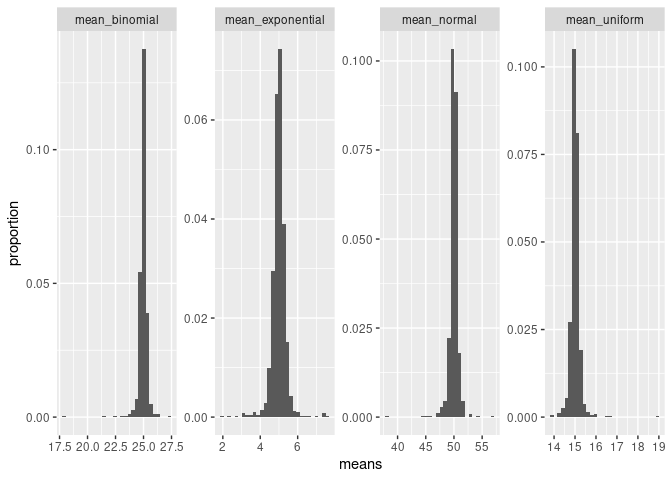
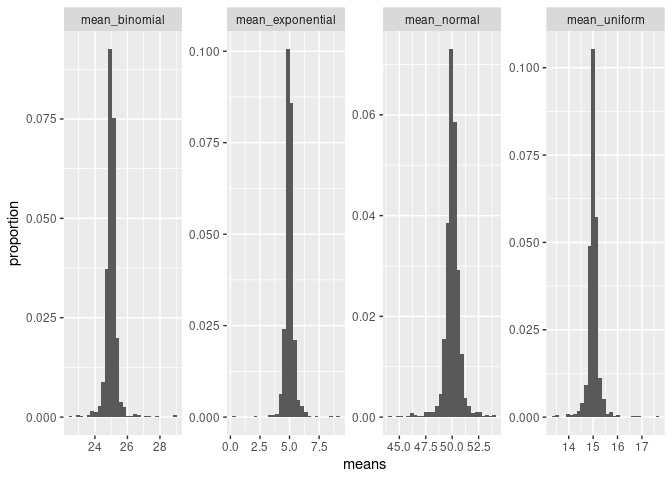
Progress

diff --git a/activity11-simulation.md b/activity11-simulation.md
@@ -173,6 +173,23 @@ distributions (e.g., your Normal data should not have a mean of 0 or a
 standard deviation of 1). Test your function with `n = 30` and
 `n = 1000`.
 
+``` r
+generate_n_samples<-function(n,mean,sd,r,df,min,max){
+  tibble(
+    norm_values=rnorm(n=n,mean=mean, sd=sd),
+    exp_values = rexp(n=n, r=r),
+    chisq_values=rchisq(n=n,df=df),
+    uniform_values=runif(n=n,min=min,max=max)
+  )
+}
+generate_n_samples(1,5,.05,4,2,1,11)
+```
+
+    ## # A tibble: 1 x 4
+    ##   norm_values exp_values chisq_values uniform_values
+    ##         <dbl>      <dbl>        <dbl>          <dbl>
+    ## 1        4.97      0.113         1.76           10.6
+
 Keep the following information in mind for the rest of this activity.
 The mean and standard deviation for each of the general distributions we
 are using in this activity are (using the R function arguments):
@@ -193,12 +210,12 @@ are using in this activity are (using the R function arguments):
 Complete the table below with the **mean and standard deviation** values
 for your specific distributions. These are the “population values”.
 
-| Distribution | Mean | SD  |
-|--------------|------|-----|
-| Normal       |      |     |
-| Exponential  |      |     |
-| Chi-square   |      |     |
-| Uniform      |      |     |
+| Distribution | Mean | SD   |
+|--------------|------|------|
+| Normal       | 5    | .05  |
+| Exponential  | .25  | .25  |
+| Chi-square   | 2    | 2    |
+| Uniform      | 6    | 2.88 |
 
 Below I provide you with a function that calculates the sample mean for
 each column/distribution.
@@ -216,6 +233,24 @@ generator from above to calculate the means for `n = 30` and `n = 1000`
 Discuss how the means compares for each distribution. Note that it
 doesn’t make sense to compare means/standard deviations across the
 distributions.
+
+``` r
+sample_mean(generate_n_samples(30,5,.05,4,2,1,11))
+```
+
+    ## # A tibble: 1 x 4
+    ##   mean_norm_values mean_exp_values mean_chisq_values mean_uniform_values
+    ##              <dbl>           <dbl>             <dbl>               <dbl>
+    ## 1             4.98           0.269              2.11                6.28
+
+``` r
+sample_mean(generate_n_samples(1000,5,.05,4,2,1,11))
+```
+
+    ## # A tibble: 1 x 4
+    ##   mean_norm_values mean_exp_values mean_chisq_values mean_uniform_values
+    ##              <dbl>           <dbl>             <dbl>               <dbl>
+    ## 1             5.00           0.259              2.08                6.00
 
 ## Many samples
 
@@ -243,10 +278,20 @@ above, generate 1,000 samples from the four distributions each with size
 these samples to an appropriately named object (say,
 `multiple_samples`).
 
+``` r
+multiple_samples<-rerun(1000,generate_n_samples(30,5,.05,4,2,1,11))
+```
+
 Calculate the sample mean of each sample using the appropriate `map`
 function and my `sample_mean` function to produce a *data frame* of
 multiple sample means from your multiple samples object. Assign these
 sample means to an appropriately named object.
+
+``` r
+data.frame(map(1:1000,~sample_mean(generate_n_samples(n=30, param1=1,param2=1))))
+```
+
+    ## Error in generate_n_samples(n = 30, param1 = 1, param2 = 1): unused arguments (param1 = 1, param2 = 1)
 
 Restructure your previous sample means R object to, instead of having
 1,000 rows and 4 columns, have 4,000 rows and 2 columns where the
@@ -303,10 +348,10 @@ distribution_exploration(n = 100, rep = 1000, mean = 50, sd = 10, rate = 0.2, df
     ## # A tibble: 4 x 3
     ##   distribution      mean    sd
     ##   <chr>            <dbl> <dbl>
-    ## 1 mean_binomial    25.0  0.405
-    ## 2 mean_exponential  4.98 0.403
-    ## 3 mean_normal      50.0  0.832
-    ## 4 mean_uniform     15.0  0.244
+    ## 1 mean_binomial    25.0  0.392
+    ## 2 mean_exponential  5.00 0.419
+    ## 3 mean_normal      50.0  0.792
+    ## 4 mean_uniform     15.0  0.247
 
 How do these values compare to your work with `n = 30`?
 
